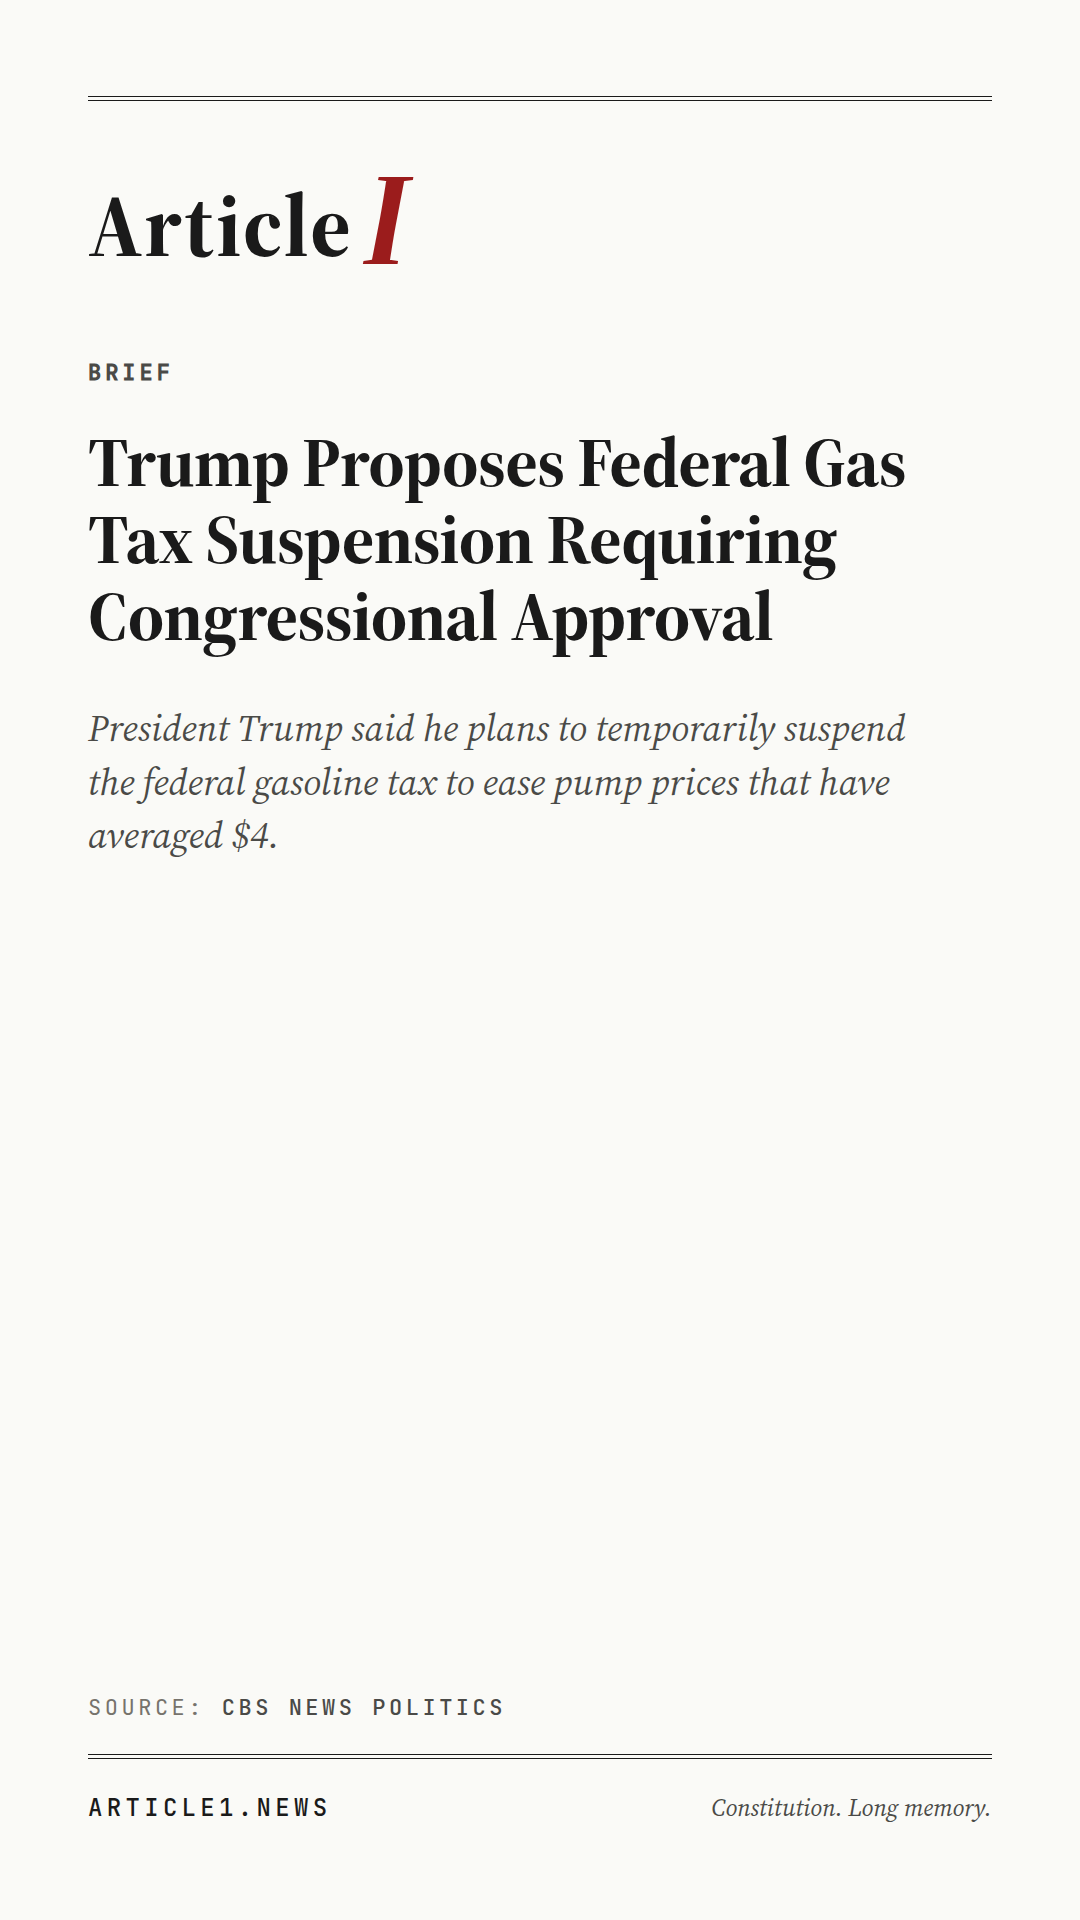
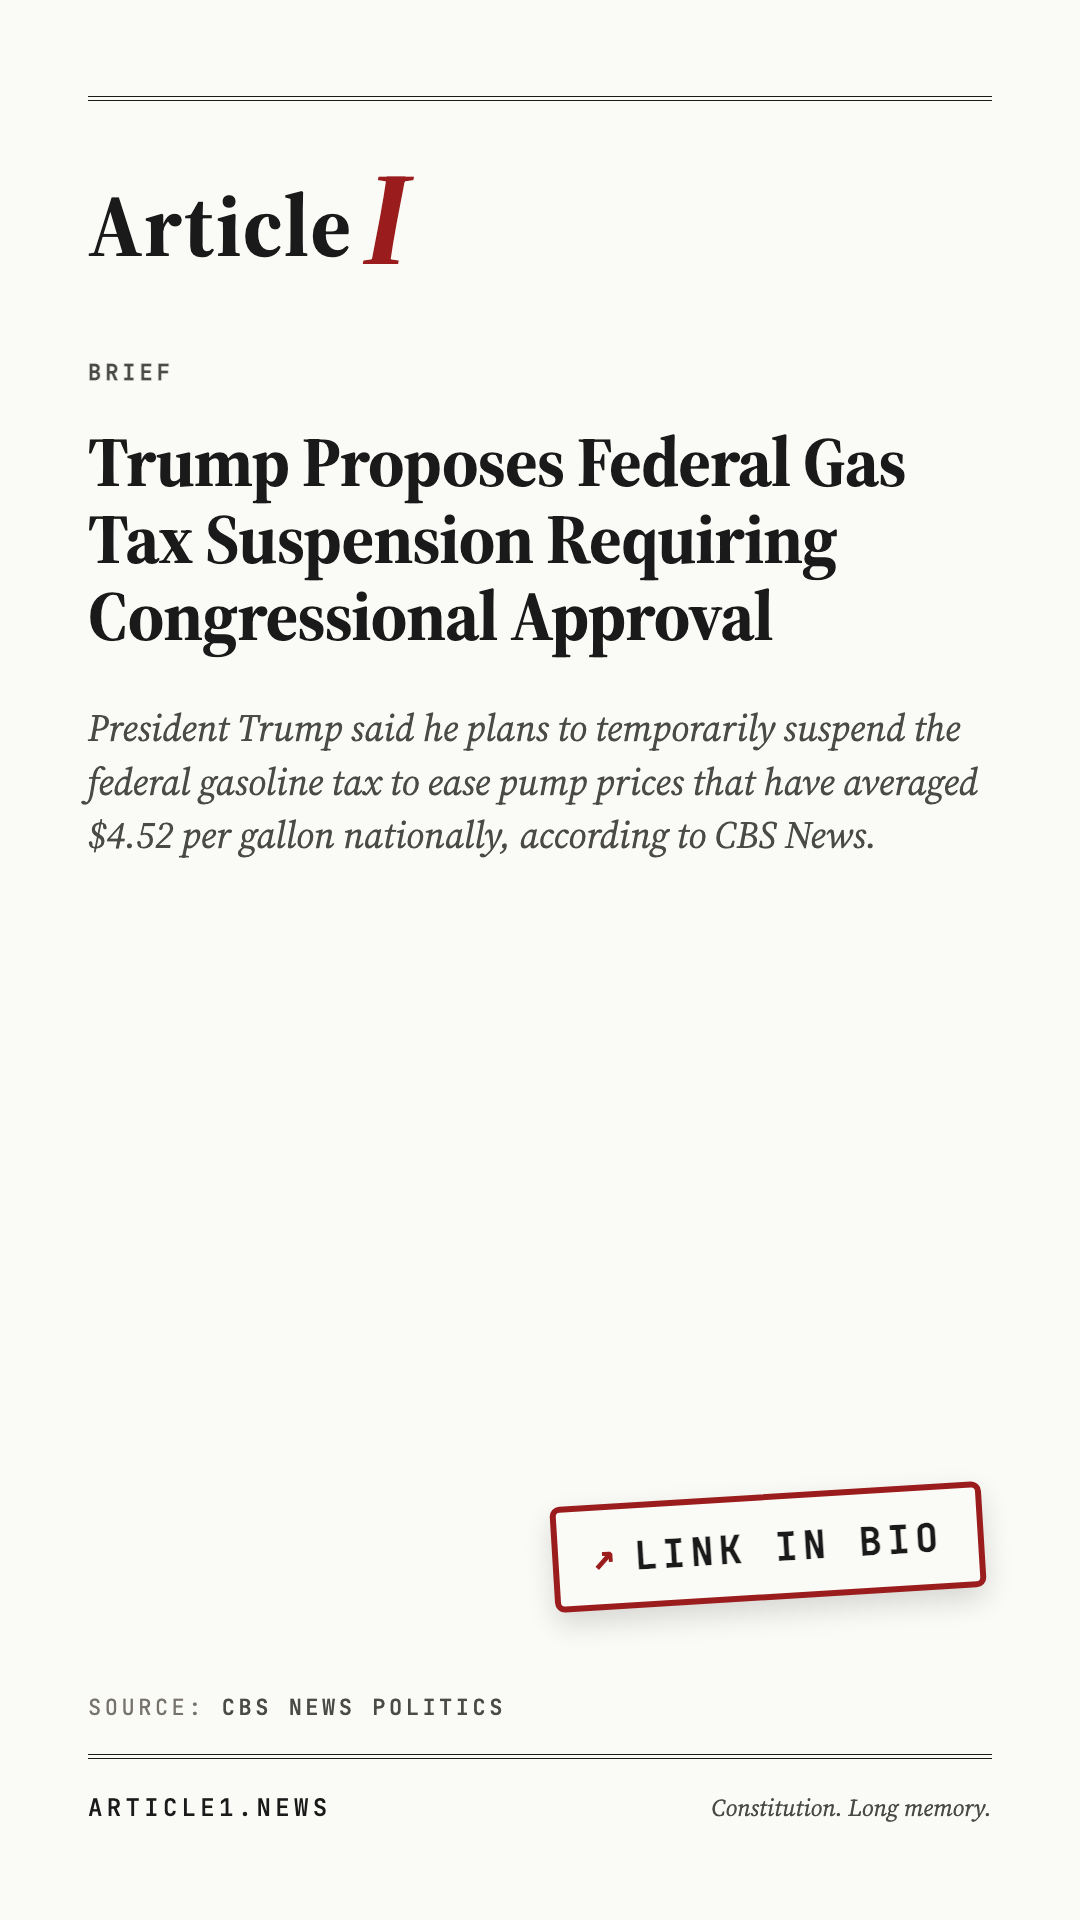
IG Story: LINK IN BIO sticker. Threads: URL moves to reply.
Per Steven 5/11: drop the baked-in ARTICLE1.NEWS/P/<id> URL from the
Story image (which the previous turn added). Replace it with a
sticker-styled "LINK IN BIO" callout — closest brand-safe stand-in for
the programmatic link sticker Meta's IG Graph API still doesn't expose.

Story template (scripts/og-stories/template.html):
- Restored the original footer (article1.news · Constitution. Long memory.)
- Added absolute-positioned .link-in-bio-sticker: parchment fill with
  thick red border, mono caps, slight -3.5° rotation, drop shadow.
  Reads like a hand-placed IG Story sticker, not a baked watermark.
- Renderer reverted: no more renderShortUrl(), no /p/<id> injection.

Threads (scripts/social/threads.ts + cross-post.ts):
- buildThreadsText() now omits the article URL — main post stays clean
  (headline + excerpt + hashtags).
- New buildThreadsReply() + postThreadReply(): after the main thread
  publishes, the cross-poster posts a reply containing the URL ("Read
  in full → https://article1.news/posts/<slug>"). Threads renders the
  reply directly under the main post.
- state/social-posted.json now tracks `threads_reply` independently of
  `threads`, so a retry only fires what failed.

Carried over from earlier in this batch:
- src/pages/p/[id].astro: short-URL → canonical-post redirect (still
  useful for SMS/email shares even though we're not baking it into the
  Story image anymore). Static-generated meta-refresh per post id.
[…]

diff --git a/scripts/social/threads.ts b/scripts/social/threads.ts
@@ -33,18 +33,27 @@ async function postJson(url: string, body: Record<string, string>): Promise<any>
  * Threads API requires two calls — create the container, then publish it.
  * If the publish call fails we still leak the created container; Threads
  * auto-cleans abandoned containers after ~24h, so we don't manage that.
+ *
+ * Pass `replyToId` to post as a reply to an existing thread instead of
+ * a top-level thread.
  */
-export async function postThread(cfg: ThreadsConfig, text: string): Promise<string> {
+export async function postThread(
+  cfg: ThreadsConfig,
+  text: string,
+  replyToId?: string,
+): Promise<string> {
   if (text.length > 500) {
     text = text.slice(0, 497) + '…';
   }
 
   // Step 1: create container
-  const create = await postJson(`${THREADS_BASE}/${cfg.userId}/threads`, {
+  const createParams: Record<string, string> = {
     media_type: 'TEXT',
     text,
     access_token: cfg.accessToken,
-  });
+  };
+  if (replyToId) createParams.reply_to_id = replyToId;
+  const create = await postJson(`${THREADS_BASE}/${cfg.userId}/threads`, createParams);
   const creationId = create.id as string;
   if (!creationId) throw new Error(`Threads create returned no id: ${JSON.stringify(create)}`);
 
@@ -61,19 +70,35 @@ export async function postThread(cfg: ThreadsConfig, text: string): Promise<stri
 }
 
 /**
- * Build the Threads text for an Article I post.
+ * Reply to an existing Threads post with text. Used by the cross-poster
+ * to attach the article URL as a comment under the main headline post.
+ *
+ * Steven's spec: keep the main Threads post clean (no URL inline);
+ * the URL lives in a reply so readers see clean content first.
+ */
+export async function postThreadReply(
+  cfg: ThreadsConfig,
+  replyToId: string,
+  text: string,
+): Promise<string> {
+  return postThread(cfg, text, replyToId);
+}
+
+/**
+ * Build the MAIN Threads text for an Article I post.
  *
  * Format:
  *   <headline>
  *
  *   <first 1-2 sentences of body>
  *
- *   article1.news/posts/<slug>
+ *   #<hashtag1> #<hashtag2> #<hashtag3>
  *
- *   #<hashtag1> #<hashtag2>
+ * The article URL is NOT in the main post — it goes as a reply via
+ * buildThreadsReply() / postThreadReply(). Per Steven 5/11: keep the
+ * main post clean, URL in the comment.
  *
- * We omit hashtag-spam — Threads doesn't reward heavy hashtagging the way
- * X used to. Three or fewer is the sweet spot.
+ * Hashtag count capped at 3 — Threads doesn't reward heavy hashtagging.
  */
 export function buildThreadsText(opts: {
   headline: string;
@@ -81,31 +106,45 @@ export function buildThreadsText(opts: {
   slug: string;
   hashtags: string[];
 }): string {
-  const url = `https://article1.news/posts/${opts.slug}`;
-  const excerpt = firstTwoSentences(opts.body, 280);
-  const tags = opts.hashtags.slice(0, 3).map((h) => `#${h.replace(/^#/, '')}`).join(' ');
+  const excerpt = firstTwoSentences(opts.body, 320);
+  // Zero-width space prefix before the hashtag block. Threads strips a
+  // line-leading '#' (it treats # at column 0 as a markdown header
+  // marker), so the first hashtag arrives without its hash. The ZWSP
+  // is invisible to humans but prevents the # from being at column 0.
+  const tagBody = opts.hashtags.slice(0, 3).map((h) => `#${h.replace(/^#/, '')}`).join(' ');
+  const tags = tagBody ? '' + tagBody : '';
 
   // Greedy assemble with a 480-char cushion to leave room for ellipsis.
-  const parts = [opts.headline, excerpt, url, tags].filter(Boolean);
+  const parts = [opts.headline, excerpt, tags].filter(Boolean);
   let text = parts.join('\n\n');
 
   if (text.length > 490) {
     // Drop excerpt down to one sentence
     const oneSentence = firstTwoSentences(opts.body, 160);
-    text = [opts.headline, oneSentence, url, tags].filter(Boolean).join('\n\n');
+    text = [opts.headline, oneSentence, tags].filter(Boolean).join('\n\n');
   }
   if (text.length > 490) {
     // Last resort: drop excerpt entirely
-    text = [opts.headline, url, tags].filter(Boolean).join('\n\n');
+    text = [opts.headline, tags].filter(Boolean).join('\n\n');
   }
   if (text.length > 500) text = text.slice(0, 497) + '…';
   return text;
 }
 
+/**
+ * Build the REPLY text — just the article URL with a brief lead-in.
+ * Posted as a reply to the main thread by the cross-poster.
+ */
+export function buildThreadsReply(opts: { slug: string }): string {
+  return `Read in full → https://article1.news/posts/${opts.slug}`;
+}
+
 function firstTwoSentences(text: string, maxChars: number): string {
   if (!text) return '';
   const cleaned = text.replace(/\s+/g, ' ').trim();
-  const m = cleaned.match(/^.{40,}?[.!?]\s+.{20,}?[.!?]/);
+  // Require sentence-ending punctuation to be followed by whitespace —
+  // otherwise "$4.52" or "U.S." breaks the regex inside numbers/abbreviations.
+  const m = cleaned.match(/^.{40,}?[.!?]\s+.{20,}?[.!?](?=\s|$)/);
   if (m) {
     const out = m[0];
     return out.length > maxChars ? firstSentence(cleaned, maxChars) : out;
@@ -114,7 +153,7 @@ function firstTwoSentences(text: string, maxChars: number): string {
 }
 
 function firstSentence(cleaned: string, maxChars: number): string {
-  const m = cleaned.match(/^.{40,}?[.!?]/);
+  const m = cleaned.match(/^.{40,}?[.!?](?=\s|$)/);
   const out = m ? m[0] : cleaned.slice(0, maxChars);
   return out.length > maxChars ? out.slice(0, maxChars).replace(/\s+\S*$/, '') + '…' : out;
 }

diff --git a/scripts/og-stories/template.html b/scripts/og-stories/template.html
@@ -214,9 +214,46 @@
     text-transform: none;
     color: var(--ink-2);
   }
+
+  /* "LINK IN BIO" sticker — IG Stories can't carry a programmatic link
+     sticker via the Graph API, and this is the closest brand-safe stand-in:
+     a paper-sticker-styled callout that visually reads as a tap target.
+     Absolutely positioned, slightly rotated, with a drop shadow so it
+     hovers above the page instead of looking baked-in. */
+  .link-in-bio-sticker {
+    position: absolute;
+    bottom: 320px;
+    right: 96px;
+    background: var(--parchment);
+    border: 6px solid var(--red);
+    border-radius: 10px;
+    padding: 22px 34px;
+    font-family: var(--mono);
+    font-size: 38px;
+    font-weight: 700;
+    letter-spacing: 0.14em;
+    text-transform: uppercase;
+    color: var(--ink);
+    transform: rotate(-3.5deg);
+    box-shadow: 0 12px 28px rgba(0, 0, 0, 0.14);
+    white-space: nowrap;
+    z-index: 2;
+  }
+  .link-in-bio-sticker .arrow {
+    color: var(--red);
+    margin-right: 14px;
+    display: inline-block;
+    transform: translateY(-2px);
+  }
 </style>
 </head>
 <body>
+  <!-- "LINK IN BIO" sticker — visual stand-in for the link-sticker we
+       can't add via the IG Graph API. -->
+  <div class="link-in-bio-sticker">
+    <span class="arrow">↗</span>LINK IN BIO
+  </div>
+
   <!-- The renderer fills these with template literals based on post format. -->
   <header>
     <div class="top-rule"></div>

diff --git a/scripts/social/cross-post.ts b/scripts/social/cross-post.ts
@@ -23,7 +23,13 @@ import path from 'path';
 import { fileURLToPath } from 'url';
 import matter from 'gray-matter';
 
-import { postThread, buildThreadsText, type ThreadsConfig } from './threads.js';
+import {
+  postThread,
+  postThreadReply,
+  buildThreadsText,
+  buildThreadsReply,
+  type ThreadsConfig,
+} from './threads.js';
 import {
   postFeedImage,
   postFeedCarousel,
@@ -84,6 +90,7 @@ interface PostFront {
 
 interface PostState {
   threads?: string;
+  threads_reply?: string;
   ig_feed?: string;
   ig_story?: string;
   posted_at?: string;
@@ -160,7 +167,7 @@ async function postOne(slug: string, post: PostFront, state: SocialState): Promi
 
   const url = `${CDN_BASE}/posts/${slug}`;
 
-  // 1. Threads (text-only)
+  // 1. Threads (text-only main post — URL goes in a reply below)
   if (!s.threads) {
     try {
       const text = buildThreadsText({
@@ -179,6 +186,25 @@ async function postOne(slug: string, post: PostFront, state: SocialState): Promi
     } catch (err) {
       console.error(`    ✗ threads failed: ${(err as Error).message}`);
       recordError(s, 'threads', err);
+    }
+  }
+
+  // 1b. Threads REPLY with the article URL. Posts under the main thread
+  // so the headline+excerpt reads clean in the feed, with the read-more
+  // link as the first comment.
+  if (s.threads && !s.threads_reply) {
+    try {
+      const replyText = buildThreadsReply({ slug });
+      console.log(`  → threads reply with URL`);
+      if (DRY) {
+        console.log(`    [dry] reply: ${replyText}`);
+      } else {
+        s.threads_reply = await postThreadReply(lazyThreads(), s.threads, replyText);
+        console.log(`    ✓ threads reply id=${s.threads_reply}`);
+      }
+    } catch (err) {
+      console.error(`    ✗ threads reply failed: ${(err as Error).message}`);
+      recordError(s, 'threads_reply', err);
     }
   }
 

diff --git a/scripts/og-stories/render.ts b/scripts/og-stories/render.ts
@@ -99,8 +99,11 @@ function pickHeadlineSizeClass(headline: string): string {
 function firstSentence(text: string, maxChars = 240): string {
   if (!text) return '';
   const cleaned = text.replace(/\s+/g, ' ').trim();
-  // Try to break at sentence end
-  const m = cleaned.match(/^.{40,}?[.!?]/);
+  // Try to break at sentence end. Require the punctuation to be followed
+  // by whitespace OR end-of-string — otherwise decimal numbers like
+  // "$4.52" and abbreviations like "U.S." get treated as sentence breaks
+  // and truncate the excerpt at the period.
+  const m = cleaned.match(/^.{40,}?[.!?](?=\s|$)/);
   const out = m ? m[0] : cleaned.slice(0, maxChars);
   return out.length > maxChars ? out.slice(0, maxChars).replace(/\s+\S*$/, '') + '…' : out;
 }

diff --git a/scripts/og-feed/render.ts b/scripts/og-feed/render.ts
@@ -97,7 +97,9 @@ function pickHeadlineSizeClass(headline: string): string {
 function firstSentence(text: string, maxChars = 220): string {
   if (!text) return '';
   const cleaned = text.replace(/\s+/g, ' ').trim();
-  const m = cleaned.match(/^.{40,}?[.!?]/);
+  // Period must be followed by whitespace or end — avoids breaking at
+  // decimal numbers ("$4.52") and abbreviations ("U.S.").
+  const m = cleaned.match(/^.{40,}?[.!?](?=\s|$)/);
   const out = m ? m[0] : cleaned.slice(0, maxChars);
   return out.length > maxChars ? out.slice(0, maxChars).replace(/\s+\S*$/, '') + '…' : out;
 }